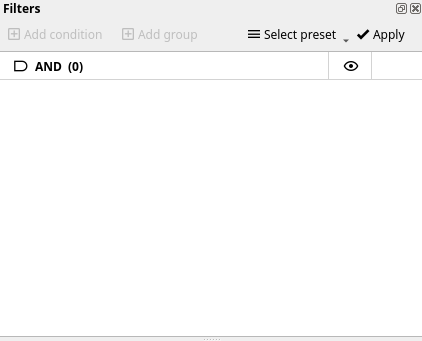
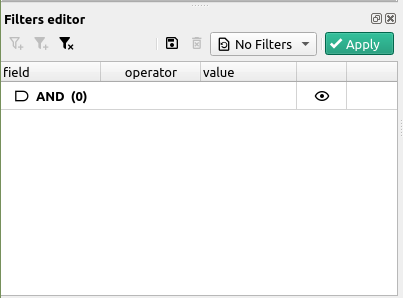
[doc] Started working on plugin tutorials

Changed region(s): [[0.0, 0.0, 1.0, 0.9966]]

diff --git a/docs/docs/plugins/filters.md b/docs/docs/plugins/filters.md
@@ -1,112 +1,8 @@
 # Using filters
 
-Filters in cutevariant are a handy way of getting rid of variants you may not be interested in.
+Filters are one of cutevariant's key features to select variants based on their properties.
 
-As with any other feature un cutevariant, there is always two ways to do it. Through VQL or using the Filters plugin.
-
-## Filtering with VQL
-
-To apply a filter on a VQL request, first add the `WHERE` keyword at the end of the query. For instance,
-
-`SELECT chr,pos,ref,alt FROM variants WHERE pos >= 10000`
-
-will filter out every variant with position smaller than 10000.
-The `WHERE` VQL statement supports two logical operators, `AND` and `OR`.
-
->
-- You can use as many parenthesis as needed to separate the statements.
-- Other operators that apply to the field depend on their type.
-
-Currently, cutevariant supports 4 data types:
-- Strings
-- Integers
-- Decimal numbers
-- Booleans
-
-### String operators
-
-The simplest operators on strings are `=` and `!=`, respectively equality and inequality operators.
-They apply on string fields, and there must be a perfect match between the field's value and the right hand side value.
-However, most of the time you don't know the exact name of the gene you're looking for beforehand.
-For instance, you may be looking for variants involving a whole gene family, or a known biological pathway. In this case, you need more data to match the field against, and therefore, more complex operators.
-
-Luckily enough, there are three ways to address these types of issues.
-
-#### Using regular expressions
-
-First, you can use regular expressions. In cutevariant, we use python regular expressions engine under the hood, so [here](https://docs.python.org/3/library/re.html#regular-expression-syntax){target=_blank} is a great reference to get you started with this syntax.
-
-Below is an example of how to use regular expressions to select only [transversions](https://en.wikipedia.org/wiki/Transversion){target=_blank}.
-
-In VQL, the regular expression operator is `~`. Let's see how to use it in order to select transversion variants.
-
-```sql
-SELECT chr,pos,ref,alt FROM variants WHERE ref ~ '^[AG]$' AND alt ~ '^[CT]$'
-```
-
-You can read this statement as SELECT chr,pos,ref,alt WHERE ref matches either A or G, **and** alt matches C or T (from table variants).
-
-Note that an alternative to regular expressions, in this particular case, would be:
-
-`SELECT chr,pos,ref,alt FROM variants WHERE (ref='A' OR ref='G') AND (ref='C' OR ref='T')` which is much more verbose and harder to read than the regex way.
-
-For a more advanced exploration of regular expressions (if you're already familiar with them but need more in-depth approach), I would suggest you train on this
-really cool [website](https://regex101.com/), that helps you build and test regular expressions.
-
-#### Using wordsets
-
-You can also define wordsets. These can contain any arbitrary number of strings, and can be loaded from a file.
-
-Usage example:
-`SELECT chr,pos,ref,alt,ann.gene FROM variants WHERE ann.gene IN WORDSET['My wordset']`
-
-This will select every variant for which the gene annotation is in the wordset `My wordset`. Note the use of the `IN` operator, that can be negated with `NOT IN`.
-
-To keep track of existing wordsets, create new ones, and modify them, there is a wordset plugin, which usage is described [here](../plugins/wordset.md).
-
-#### Using string lists
-
-Last but not least, you can use string lists. This is an intermediate solution between equality/inequality operators, where you specify the exact match, and the wordset operators where you can have very long list of strings to match against.
-
-Let's say you have a few gene names that you want to look for, then this is the perfect use case for string list matching.
-In VQL, this translates into :
-
-`SELECT chr,pos,ref,alt,ann.gene FROM variants WHERE ann.gene IN ('gene A','gene B','gene C')`
-
-You can specify as many values as you want, as long as you quote the reference strings, separate values with commas, and put the whole test expression between parenthesis.
-
-Note though, that if you have too many strings to test against one field, you may end up cluttering the VQL expression and make it hard to read.
-
-If you need to do really complex filtering operations, you can break them down by creating new [sources](../plugins/selections.md)[^1], *a.k.a.* selections.
-
-### Number operators
-
-You can use any comparison operator on number, the only limitation is that you need to apply them one at the time.
-For instance, the following VQL statement is not valid:
-
-`SELECT chr,pos,ref,alt FROM variants WHERE 1000 < pos < 3000`
-
-Instead, you need to use logical operators (such as `AND` and `OR`). So here is one possible fix for the above statement:
-
-`SELECT chr,pos,ref,alt FROM variants WHERE pos > 1000 AND pos < 3000`
-
-### Boolean operators
-
-Some fields are booleans. As of 2021.05.08 release, you still need a comparison operator with them, such as `=`/`!=` and compare against True/False or 1/0.
-
-For instance, this command is not valid:
-
-`SELECT chr,pos,ref,alt FROM variants WHERE favorite`
-
-Where this is one possible fix:
-
-`SELECT chr,pos,ref,alt FROM variants WHERE favorite=True`
-
-Allowed boolean values are:
-- `True`, `true`, or `1`
-- `False`, `false`, or `0`
-
-Please keep in mind that these are case sensitive, which means that TRUE won't evaluate to true, and so on.
+In this tutorial, we will show you how to use the dedicated user interface.
 
 ## Filtering using the Filters editor plugin
 

diff --git a/docs/docs/vql.md b/docs/docs/vql.md
@@ -162,6 +162,112 @@ DROP WORDSETS mygenes
 ```
 
 
+-------------------------------
 
+
+
+## Filtering with VQL
+
+To apply a filter on a VQL request, first add the `WHERE` keyword at the end of the query. For instance,
+
+`SELECT chr,pos,ref,alt FROM variants WHERE pos >= 10000`
+
+will filter out every variant with position smaller than 10000.
+The `WHERE` VQL statement supports two logical operators, `AND` and `OR`.
+
+>
+- You can use as many parenthesis as needed to separate the statements.
+- Other operators that apply to the field depend on their type.
+
+Currently, cutevariant supports 4 data types:
+- Strings
+- Integers
+- Decimal numbers
+- Booleans
+
+### String operators
+
+The simplest operators on strings are `=` and `!=`, respectively equality and inequality operators.
+They apply on string fields, and there must be a perfect match between the field's value and the right hand side value.
+However, most of the time you don't know the exact name of the gene you're looking for beforehand.
+For instance, you may be looking for variants involving a whole gene family, or a known biological pathway. In this case, you need more data to match the field against, and therefore, more complex operators.
+
+Luckily enough, there are three ways to address these types of issues.
+
+#### Using regular expressions
+
+First, you can use regular expressions. In cutevariant, we use python regular expressions engine under the hood, so [here](https://docs.python.org/3/library/re.html#regular-expression-syntax){target=_blank} is a great reference to get you started with this syntax.
+
+Below is an example of how to use regular expressions to select only [transversions](https://en.wikipedia.org/wiki/Transversion){target=_blank}.
+
+In VQL, the regular expression operator is `~`. Let's see how to use it in order to select transversion variants.
+
+```sql
+SELECT chr,pos,ref,alt FROM variants WHERE ref ~ '^[AG]$' AND alt ~ '^[CT]$'
+```
+
+You can read this statement as SELECT chr,pos,ref,alt WHERE ref matches either A or G, **and** alt matches C or T (from table variants).
+
+Note that an alternative to regular expressions, in this particular case, would be:
+
+`SELECT chr,pos,ref,alt FROM variants WHERE (ref='A' OR ref='G') AND (ref='C' OR ref='T')` which is much more verbose and harder to read than the regex way.
+
+For a more advanced exploration of regular expressions (if you're already familiar with them but need more in-depth approach), I would suggest you train on this
+really cool [website](https://regex101.com/), that helps you build and test regular expressions.
+
+#### Using wordsets
+
+You can also define wordsets. These can contain any arbitrary number of strings, and can be loaded from a file.
+
+Usage example:
+`SELECT chr,pos,ref,alt,ann.gene FROM variants WHERE ann.gene IN WORDSET['My wordset']`
+
+This will select every variant for which the gene annotation is in the wordset `My wordset`. Note the use of the `IN` operator, that can be negated with `NOT IN`.
+
+To keep track of existing wordsets, create new ones, and modify them, there is a wordset plugin, which usage is described [here](../plugins/wordset.md).
+
+#### Using string lists
+
+Last but not least, you can use string lists. This is an intermediate solution between equality/inequality operators, where you specify the exact match, and the wordset operators where you can have very long list of strings to match against.
+
+Let's say you have a few gene names that you want to look for, then this is the perfect use case for string list matching.
+In VQL, this translates into :
+
+`SELECT chr,pos,ref,alt,ann.gene FROM variants WHERE ann.gene IN ('gene A','gene B','gene C')`
+
+You can specify as many values as you want, as long as you quote the reference strings, separate values with commas, and put the whole test expression between parenthesis.
+
+Note though, that if you have too many strings to test against one field, you may end up cluttering the VQL expression and make it hard to read.
+
+If you need to do really complex filtering operations, you can break them down by creating new [sources](../plugins/selections.md)[^1], *a.k.a.* selections.
+
+### Number operators
+
+You can use any comparison operator on number, the only limitation is that you need to apply them one at the time.
+For instance, the following VQL statement is not valid:
+
+`SELECT chr,pos,ref,alt FROM variants WHERE 1000 < pos < 3000`
+
+Instead, you need to use logical operators (such as `AND` and `OR`). So here is one possible fix for the above statement:
+
+`SELECT chr,pos,ref,alt FROM variants WHERE pos > 1000 AND pos < 3000`
+
+### Boolean operators
+
+Some fields are booleans. As of 2021.05.08 release, you still need a comparison operator with them, such as `=`/`!=` and compare against True/False or 1/0.
+
+For instance, this command is not valid:
+
+`SELECT chr,pos,ref,alt FROM variants WHERE favorite`
+
+Where this is one possible fix:
+
+`SELECT chr,pos,ref,alt FROM variants WHERE favorite=True`
+
+Allowed boolean values are:
+- `True`, `true`, or `1`
+- `False`, `false`, or `0`
+
+Please keep in mind that these are case sensitive, which means that TRUE won't evaluate to true, and so on.
 
 
